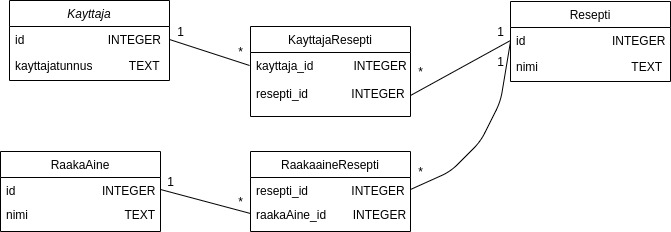
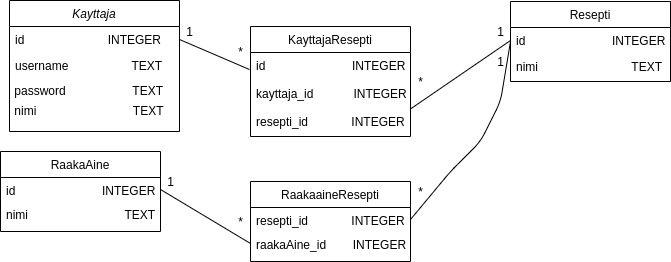
kaavion paivitys ja liitostaulun lisaaminen

diff --git a/application/liitostaulu/models.py b/application/liitostaulu/models.py
@@ -1,0 +1,11 @@
+from application import db
+
+class KayttajaResepti(db.Model):
+    id = db.Column(db.Integer, primary_key=True)
+
+    kayttaja_id = db.Column(db.Integer, db.ForeignKey('kayttaja.id'), nullable=False)
+    resepti_id = db.Column(db.Integer, db.ForeignKey('resepti.id'), nullable=False)
+
+    def __init__(self, kayttaja_id, resepti_id):
+        self.kayttaja_id = kayttaja_id
+        self.resepti_id = resepti_id

diff --git a/application/auth/models.py b/application/auth/models.py
@@ -9,6 +9,8 @@ class Kayttaja(db.Model):
     username = db.Column(db.String(144), nullable=False)
     password = db.Column(db.String(144), nullable=False)
 
+    kayttajaresepti = db.relationship("KayttajaResepti", backref='kayttaja', lazy=True)
+
     def __init__(self, name, username, password):
         self.name = name
         self.username = username

diff --git a/application/reseptit/models.py b/application/reseptit/models.py
@@ -4,6 +4,8 @@ class Resepti(db.Model):
     id = db.Column(db.Integer, primary_key=True)
     name = db.Column(db.String(144), nullable=False)
 
+    kayttajaresepti = db.relationship("KayttajaResepti", backref='resepti', lazy=True)
+
     def __init__(self, name):
         self.name = name
 

diff --git a/application/__init__.py b/application/__init__.py
@@ -20,6 +20,7 @@ from application.reseptit import views
 from application.auth import models
 from application.auth import views
 
+from application.liitostaulu import models
 # Kirjautuminen
 from application.auth.models import Kayttaja
 from os import urandom

diff --git a/README.md b/README.md
@@ -2,11 +2,17 @@
 
 [Sovellus Herokussa](https://reseptikirjanen.herokuapp.com/)
 
+##### Testitunnukset sovellukseen:
+Username: ada
+Password: lovelace
+
 [Tietokantakaavio](https://github.com/sofiaaair/reseptikirja/blob/master/kaavio.jpg)
 
 [Kayttötapaukset](https://github.com/sofiaaair/reseptikirja/blob/master/documentation/kayttotapaukset.md)
 
 
-Reseptikirjaan voi luoda käyttäjätunnuksen, jonka jälkeen käyttäjä pääsee tutkimaan reseptejä. Käyttäjä voi tutkia, mitä raaka-aineita hän tarvitsee haluamaansa reseptiin ja toisaalta minkä reseptin hän saa tehtyä jo olemassa olevilla raaka-aineilla.
+Reseptikirjaan voi luoda käyttäjätunnuksen, jonka jälkeen käyttäjä pääsee tutkimaan reseptejä.
+
+Käyttäjä voi tutkia, mitä raaka-aineita hän tarvitsee haluamaansa reseptiin ja toisaalta minkä reseptin hän saa tehtyä jo olemassa olevilla raaka-aineilla.
 
 
